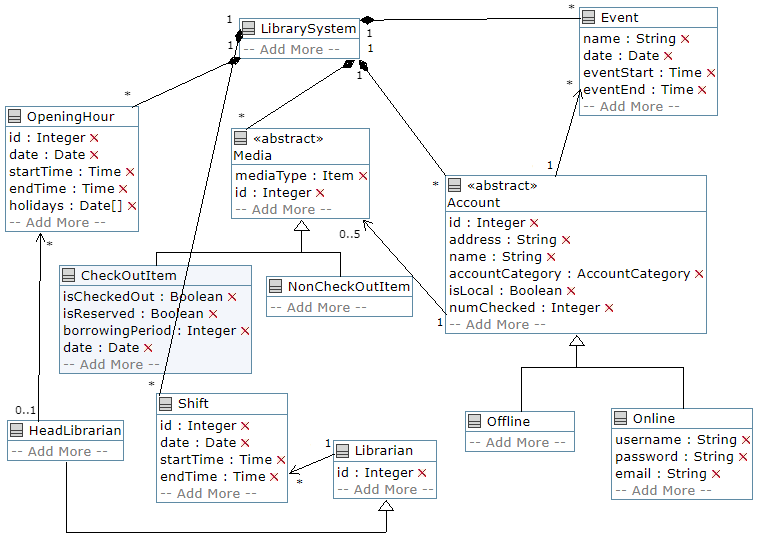
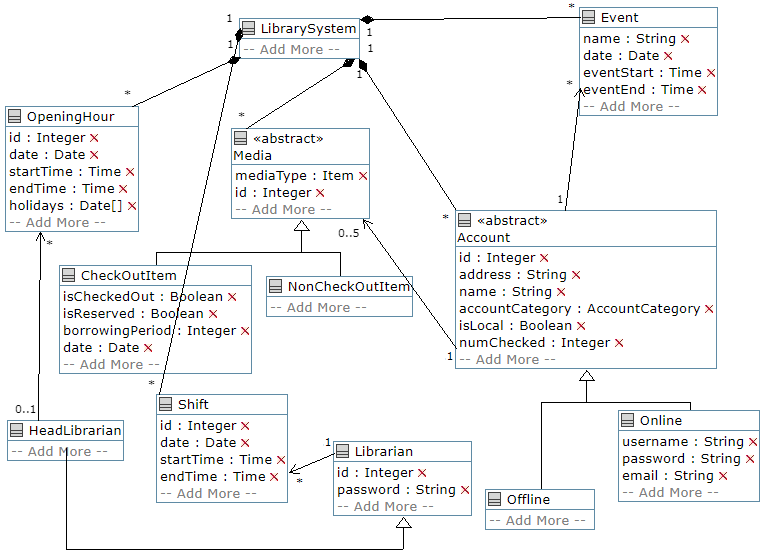
added password field to Libr and made corresponding additions to Dto, service, controller & test

diff --git a/LibrarySystem-Backend/src/test/java/ca/mcgill/ecse321/librarysystem/service/LibrarianServiceTest.java b/LibrarySystem-Backend/src/test/java/ca/mcgill/ecse321/librarysystem/service/LibrarianServiceTest.java
@@ -52,6 +52,8 @@ public class LibrarianServiceTest {
 
     private static final int LIBR_ID=15;
 	private static final int LIBR_NON_EXIST_KEY=20;
+	
+	private static final String LIBR_PWD="bleH";
 
 	private static final int LIBR_ID_2 =5;
 
@@ -83,6 +85,7 @@ public class LibrarianServiceTest {
 			if (invocation.getArgument(0).equals(LIBR_ID)) {
 				Librarian lib=new Librarian();
 				lib.setId(LIBR_ID);
+				lib.setPassword(LIBR_PWD);
 				return lib;
 			}
 			else return null;
@@ -137,6 +140,45 @@ public class LibrarianServiceTest {
 		lenient().when(shiftDao.save(any(Shift.class))).thenAnswer(returnParameterAsAnswer);
 		lenient().when(accountDao.save(any(Offline.class))).thenAnswer(returnParameterAsAnswer);
 	}
+    
+    @Test
+    public void testLibrLogin() {
+    	Librarian l=null;
+    	try {
+    		l=librarianService.login(LIBR_ID, LIBR_PWD);
+    	}
+    	catch (IllegalArgumentException e) {
+    		fail();
+    	}
+    	assertNotNull(l);
+    }
+    
+    @Test
+    public void testLibrLoginInvalidID(){
+        Librarian l = null;
+        String error = null;
+        try{
+            l = librarianService.login(LIBR_ID_N, LIBR_PWD);
+        } catch(IllegalArgumentException e) {
+			error = e.getMessage();
+		} 
+        assertNull(l);
+        assertEquals(error, "Invalid Id");
+    }
+    
+    @Test
+    public void testLibrLoginInvalidPassword(){
+        Librarian l = null;
+        String error = null;
+        try{
+            l = librarianService.login(LIBR_ID, "ah");
+        } catch(IllegalArgumentException e) {
+			error = e.getMessage();
+		}
+        assertNull(l);
+        assertEquals(error, "Incorrect password");
+    }
+    
 	@Test
 	public void testCreateLibrarian(){
 		Librarian lib = null;

diff --git a/LibrarySystem-Backend/src/main/java/ca/mcgill/ecse321/librarysystem/service/LibrarianService.java b/LibrarySystem-Backend/src/main/java/ca/mcgill/ecse321/librarysystem/service/LibrarianService.java
@@ -21,7 +21,27 @@ public class LibrarianService {
 	 ShiftRepository shiftRepository;
 	 @Autowired
 	 AccountRepository accountRepository;
-	
+	 
+	 /**
+	  * Librarian login with given parameters
+	  * @param id
+	  * @param pwd
+	  * @return the librarian
+	  */
+	 @Transactional
+	 public Librarian login(int id, String pwd) {
+		 if (librarianRepository.findLibrarianById(id)==null) {
+			 throw new IllegalArgumentException("Invalid Id");
+		 }
+		 /*if (!(librarianRepository.findLibrarianById(id) instanceof Librarian)) {
+			 throw new IllegalArgumentException("Please login through the appropriate place");
+		 }*/
+		 if (librarianRepository.findLibrarianById(id).getPassword().equals(pwd)) {
+			 return librarianRepository.findLibrarianById(id);
+		 }
+		 else throw new IllegalArgumentException("Incorrect password");
+	 }
+	 
 	/**
 	 * @author Isabella Hao
 	 * View Personal Shift

diff --git a/LibrarySystem-Backend/src/main/java/ca/mcgill/ecse321/librarysystem/models/Librarian.java b/LibrarySystem-Backend/src/main/java/ca/mcgill/ecse321/librarysystem/models/Librarian.java
@@ -11,6 +11,7 @@ import javax.persistence.Id;
 public class Librarian
 {
 	private int id;
+	private String password;
 	//The Librarian class will have shifts and some methods we will write later.
 	//Since it is an account, it inherits the ID as primary key.
   	private Set<Shift> shift; 
@@ -18,10 +19,22 @@ public class Librarian
 	public void setId(int id){
 		this.id = id;
 	}
+	public boolean setPassword(String aPassword) {
+		boolean wasSet = false;
+		password = aPassword;
+		wasSet = true;
+		return wasSet;
+	}
+	
 	@Id
 	public int getId(){
 		return this.id;
 	}
+	
+	public String getPassword() {
+		return password;
+	}
+	
 	//Each shift will have multiple librarians, just as each librarian will have multiple shifts
 	@OneToMany(cascade={CascadeType.ALL})
 	public Set<Shift> getShift()

diff --git a/LibrarySystem-Backend/src/main/java/ca/mcgill/ecse321/librarysystem/controller/LibrarianController.java b/LibrarySystem-Backend/src/main/java/ca/mcgill/ecse321/librarysystem/controller/LibrarianController.java
@@ -19,6 +19,22 @@ import ca.mcgill.ecse321.librarysystem.service.LibrarianService;
 public class LibrarianController {
 	@Autowired
 	private LibrarianService librarianService;
+	
+	/**
+	 * Librarian Dto login with given parameters
+	 * @param id
+	 * @param pwd
+	 * @return librarian Dto
+	 */
+	@GetMapping(value= {"/librLogin", "/librLogin/"})
+	public LibrarianDto login(@RequestParam int id, @RequestParam String pwd) {
+		Librarian l=null;
+		l=librarianService.login(id, pwd);
+		if (l instanceof Librarian) {
+			return Conversion.convertToDto(l);
+		}
+		else return null;
+	}
 	/**
 	 * Create librarian Dto with given parameters
 	 * @param id

diff --git a/LibrarySystem-Backend/src/main/java/ca/mcgill/ecse321/librarysystem/dto/LibrarianDto.java b/LibrarySystem-Backend/src/main/java/ca/mcgill/ecse321/librarysystem/dto/LibrarianDto.java
@@ -6,6 +6,7 @@ import java.util.*;
 */
 public class LibrarianDto {
     private int id;
+    private String password;
     private Set<ShiftDto> shifts;
     
 	public LibrarianDto() {
@@ -22,6 +23,10 @@ public class LibrarianDto {
 
     public int getId(){
         return this.id;
+    }
+    
+    public String getPassword() {
+        return password;
     }
 
 }
